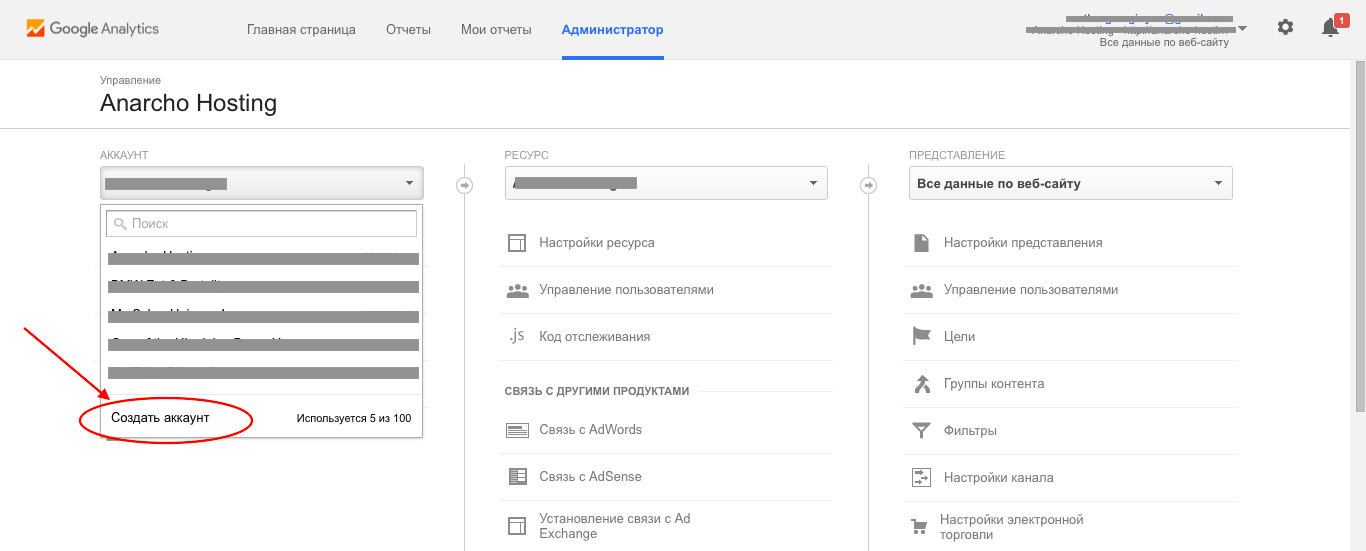
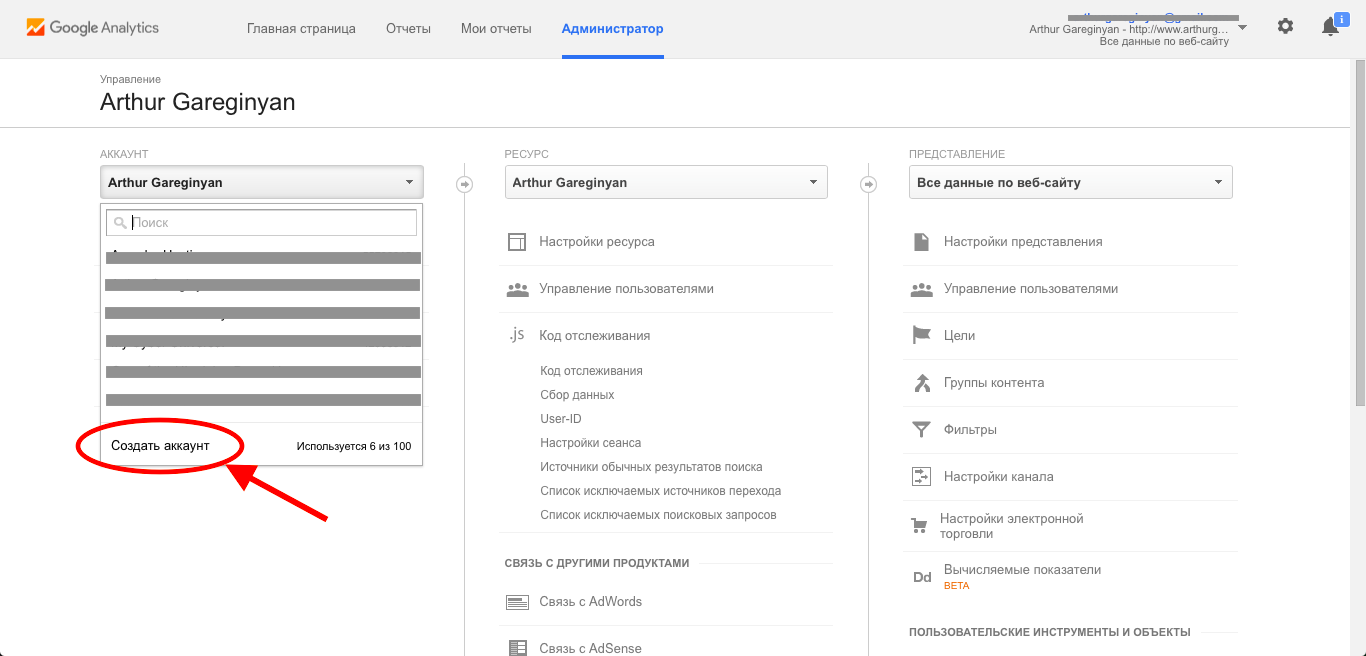
Update

diff --git a/_includes/head.html b/_includes/head.html
@@ -28,5 +28,7 @@
 
     {% include meta-tags.html %}
 
+    {% include google-analytics.html %}
+
     <link rel="alternate" type="application/rss+xml" title="{{ site.title[page.lang] }}" href="{{ site.feed[page.lang] | prepend: site.baseurl | prepend: site.url }}">
 </head>

diff --git a/_posts/en/2016-05-16-add-googe-analytics-to-a-jekyll-website.md b/_posts/en/2016-05-16-add-googe-analytics-to-a-jekyll-website.md
@@ -1,11 +1,11 @@
 ---
-lang: en
 title: Add Google Analytics to a Jekyll website
-date: 2016-05-12T22:35:03+00:00
-author: Arthur Gareginyan
-layout: post
 ref: add-googe-analytics-to-a-jekyll-website
 permalink: /web/add-googe-analytics-to-a-jekyll-website.html
+date: 2016-05-16T17:51:00+00:00
+author: Arthur Gareginyan
+lang: en
+layout: post
 categories:
   - web
 tags:
@@ -17,9 +17,7 @@ tags:
 ---
 
 ![thumb](/images/analytics-logo.png)
-Google Analytics allows you to get information about your websites visitors such as the devices or OS they were using and their location. It goes without saying that information like this can be very useful for deciding how best to deliver content.
-
-I have recently added Google Analytics to my Github site that is built using Jekyll, here’s how I did it.
+Google Analytics allows you to get information about your websites visitors such as the devices or OS they were using and their location. Such information can be very useful for deciding how best to deliver content. Below, I’ll explain how to set up a Google Analytics on Github website that is built using Jekyll.
 
 Now, step by step guide.
 
@@ -37,18 +35,14 @@ To generate your analytics tracking code you first need to create the account (i
 
 **Note:** You must to create new one accaut for every website you want to tracking.
 
-![thumb](/images/analytics-logo.png)
+![thumb](/images/analytics-account.png)
 
 
 **3.** Get the tracking code.
 
-You can find the button called `code` on the bottom of your ad unit.
-
-Once you are finished to create an account for website, you will click the Get Tracking ID button.
-
 Tracking code - is a snippet of JavaScript that collects and sends data to Analytics from a website. It’s automatically generated for every web property.
 
-Your tracking code (in this example is Universal Analytics) will be similar to the following one:
+Once you are finished to create an account for website, you will click the "Get Tracking ID" button. Your tracking code (in this example is Universal Analytics) will be similar to the following one:
 
 ```
 <script>
@@ -70,22 +64,18 @@ Your tracking code (in this example is Universal Analytics) will be similar to t
 
 Create a file called `google-analytics.html` in the `_includes` catalog of your Jekyll website. Insert your tracking code to this file.
 
-Copy this code and I recommend that you paste it within the `_layouts/default.html` file, right towards the top within the `<head>` tag. This will ensure that the code snippet will be added to every page so you can keep track of your whole website.
 
-add the tracking code before the </head> tag on 
+**5.** Call the google-analytics template from a default template.
 
-
-**5.** Call the advertisements template in a post template.
-
-Go into the `_layouts` catalog and find the `post.html` file (or any layout file for which you would like ads displayed) and insert the following code.
+Go into the `_layouts` catalog, find the `default.html` file and insert the following code right before the `</head>` tag.
 
 ```
 {% raw %}{% include google-analytics.html %}{% endraw %}
 ```
 
-I place this right after the `{{ content }}`, but the placements is totally up to you. In my case an ads will be displayed at the end of each blog post, just above the comments section.
+This will ensure that the code snippet will be added to every page so you can keep track of your whole website.
+
+**Note:** Some themes have a separeted file with head section (`<head></head>` tags). This file can be named `head.html` and be placed in the `_includes` catalog.
 
 
-**6.** Reporting.
-
-Now you are all set up, simply publish your website (note your website must be live for this to take effect). Then within the Google Analytics home page, select the `Reporting` tab at the top of the page. From here you will be able to see reports for the number of page views, geospatial information, technology and even your sites behaviour.
+That’s it! Once tracking is set up, Google Analytics will start collecting data immediately. After a few days, you can start reviewing the reports.

diff --git a/_drafts/example.md b/_drafts/example.md
@@ -1,10 +1,11 @@
-lang: en
+---
 title: Add Google Analytics to a Jekyll website
-date: 2013-05-11T23:32:03+00:00
-author: Arthur Gareginyan
-layout: post
 ref: add-googe-analytics-to-a-jekyll-website
 permalink: /web/add-googe-analytics-to-a-jekyll-website.html
+date: 2013-05-11T22:22:00+00:00
+author: Arthur Gareginyan
+lang: en
+layout: post
 categories:
   - web
 tags:

diff --git a/_drafts/img hidden in safari.md b/_drafts/img hidden in safari.md
@@ -1,10 +1,11 @@
-lang: en
+---
 title: Add Google Analytics to a Jekyll website
-date: 2013-05-11T23:32:03+00:00
-author: Arthur Gareginyan
-layout: post
 ref: add-googe-analytics-to-a-jekyll-website
 permalink: /web/add-googe-analytics-to-a-jekyll-website.html
+date: 2013-05-11T23:32:03+00:00
+author: Arthur Gareginyan
+lang: en
+layout: post
 categories:
   - web
 tags:

diff --git a/_drafts/liquid code in the post.md b/_drafts/liquid code in the post.md
@@ -1,10 +1,11 @@
-lang: en
+---
 title: Add Google Analytics to a Jekyll website
-date: 2013-05-11T23:32:03+00:00
-author: Arthur Gareginyan
-layout: post
 ref: add-googe-analytics-to-a-jekyll-website
 permalink: /web/add-googe-analytics-to-a-jekyll-website.html
+date: 2013-05-11T23:32:03+00:00
+author: Arthur Gareginyan
+lang: en
+layout: post
 categories:
   - web
 tags:

diff --git a/_posts/en/2016-05-12-add-googe-adsense-to-a-jekyll-website.md b/_posts/en/2016-05-12-add-googe-adsense-to-a-jekyll-website.md
@@ -1,11 +1,11 @@
 ---
-lang: en
 title: Add Googe AdSense to a Jekyll website
-date: 2016-05-12T22:35:03+00:00
-author: Arthur Gareginyan
-layout: post
 ref: add-googe-adsense-to-a-jekyll-website
 permalink: /web/add-googe-adsense-to-a-jekyll-website.html
+date: 2016-05-12T22:35:03+00:00
+author: Arthur Gareginyan
+lang: en
+layout: post
 categories:
   - web
 tags:
